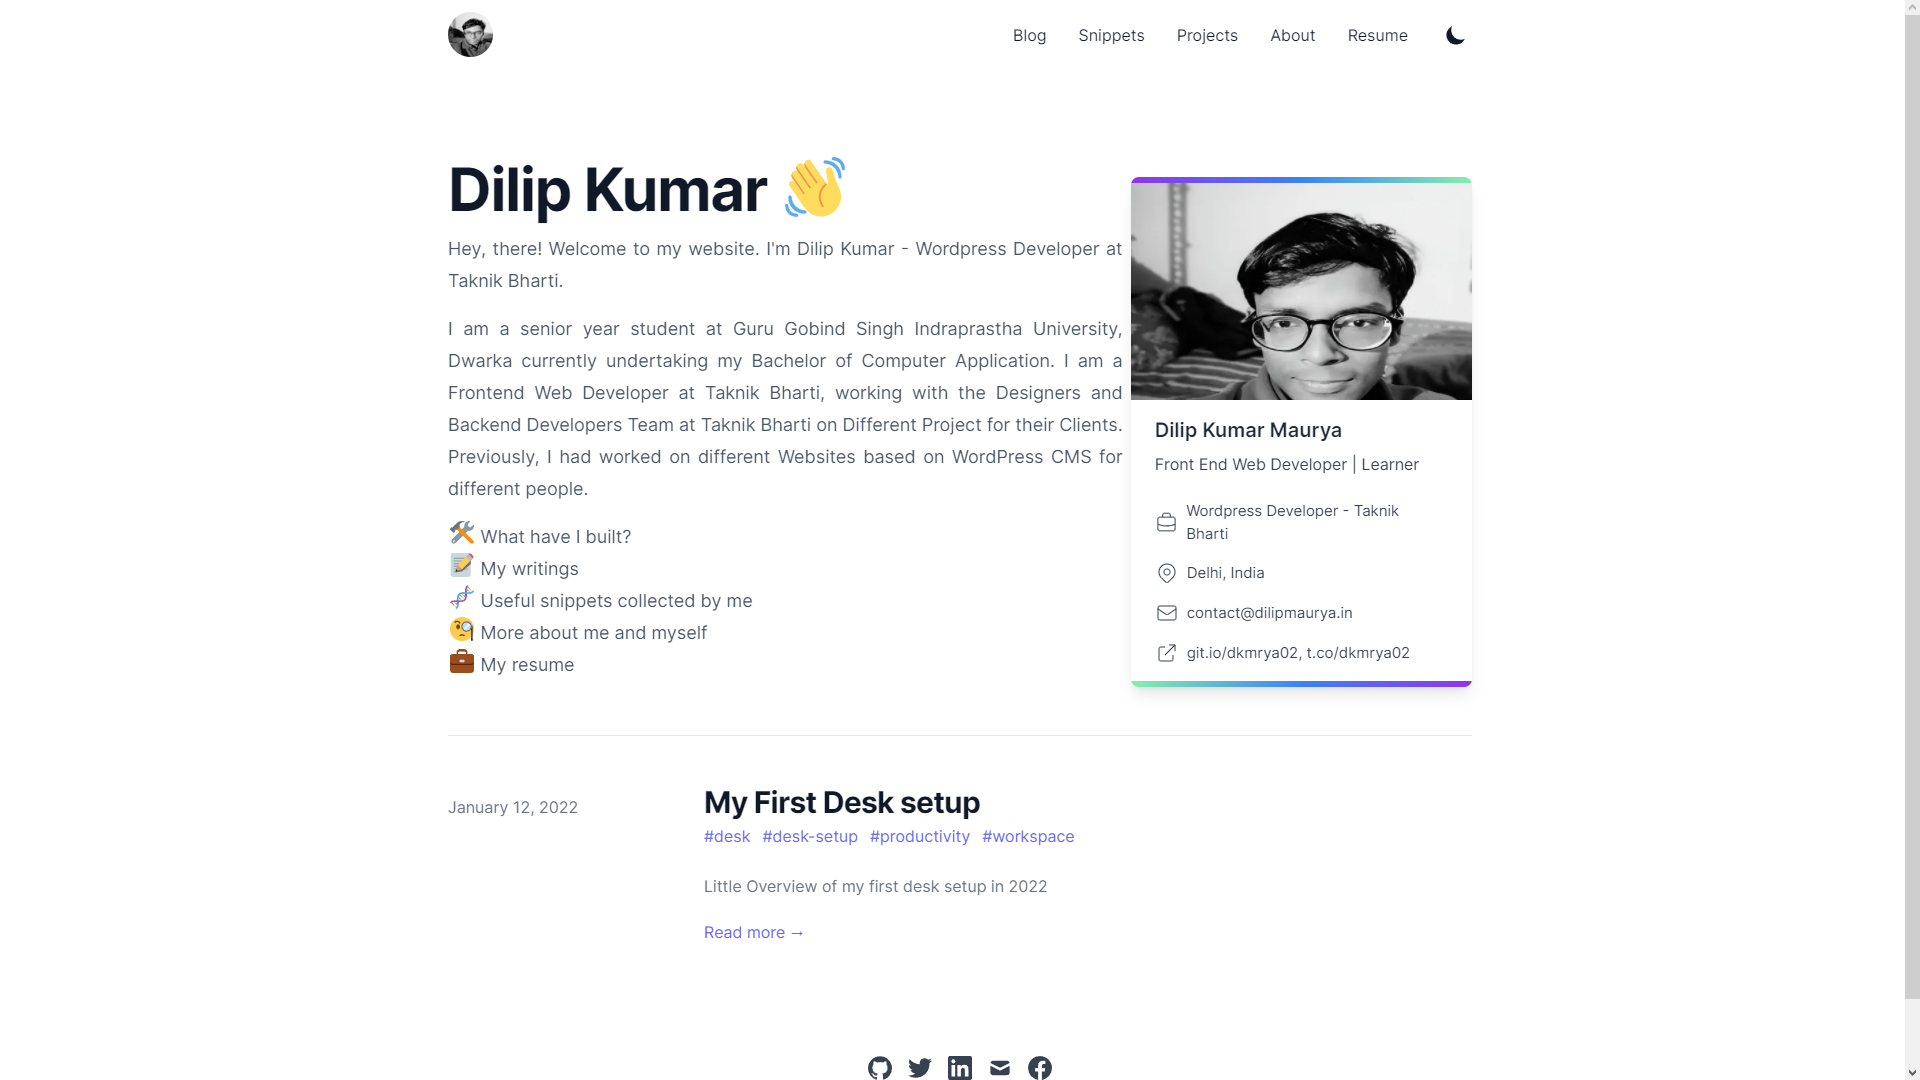
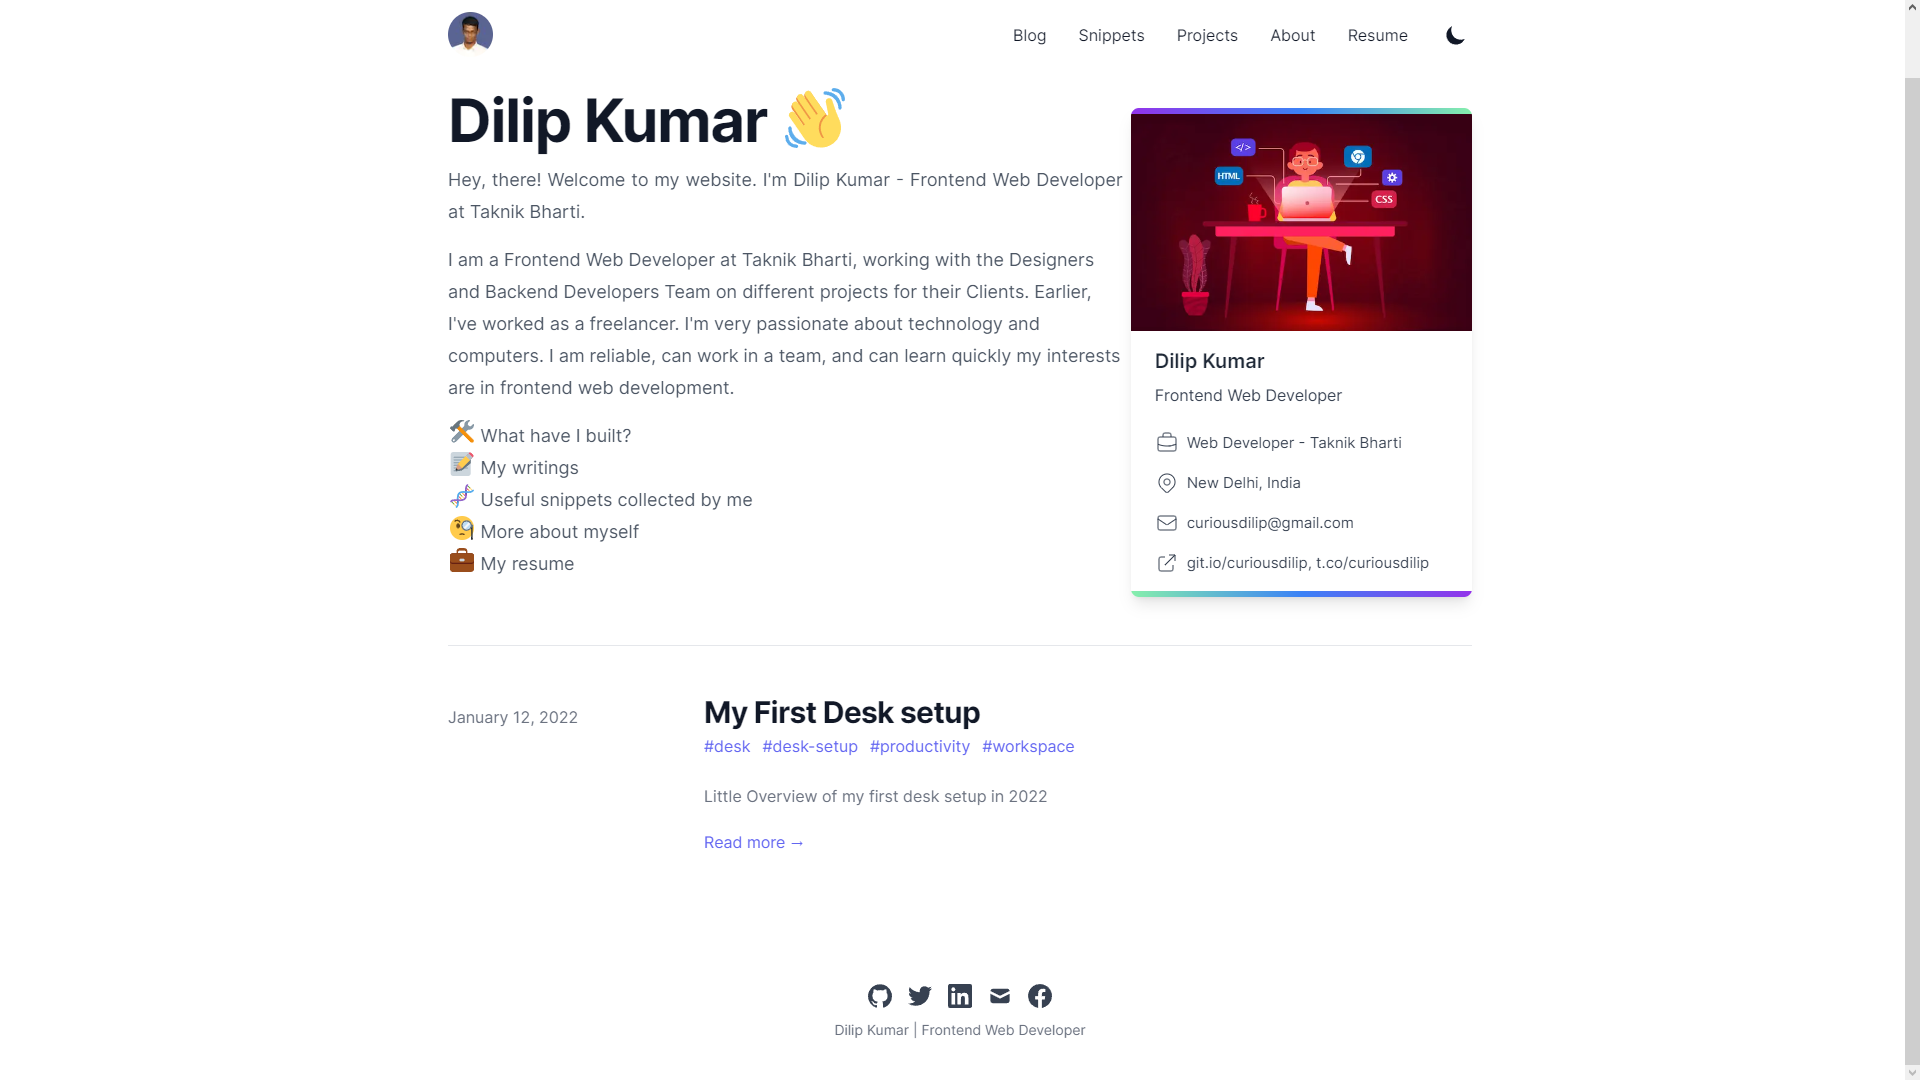
seo and resume updated

diff --git a/data/siteMetadata.js b/data/siteMetadata.js
@@ -1,8 +1,8 @@
 const siteMetadata = {
-  title: 'Dilip Kumar Maurya | Front End Web Developer',
+  title: 'Dilip Kumar | Frontend Web Developer',
   author: 'Dilip Kumar',
-  headerTitle: 'Dilip Kumar Maurya | Front End Web Developer',
-  footerTitle: 'Dilip Kumar Maurya | Front End Web Developer',
+  headerTitle: 'Dilip Kumar | Frontend Web Developer',
+  footerTitle: 'Dilip Kumar | Frontend Web Developer',
   description:
     'Hi my name is Dilip Kumar Maurya and I am a Front End Web developer based in New Delhi, India. Right now I am working as Frontend Web Developer at Taknik Bharti.',
   snippets: 'Reuseable code snippets collected by Dilip',

diff --git a/pages/index.js b/pages/index.js
@@ -37,7 +37,7 @@ export default function Home({ posts }) {
                 .
               </p>
 
-              <p className="mt-4 mb-4 text-justify">
+              <p className="mt-4 mb-4">
                 I am a Frontend Web Developer at Taknik Bharti, working with the Designers and
                 Backend Developers Team on different projects for their Clients. Earlier, I've
                 worked as a freelancer. I'm very passionate about technology and computers. I am
